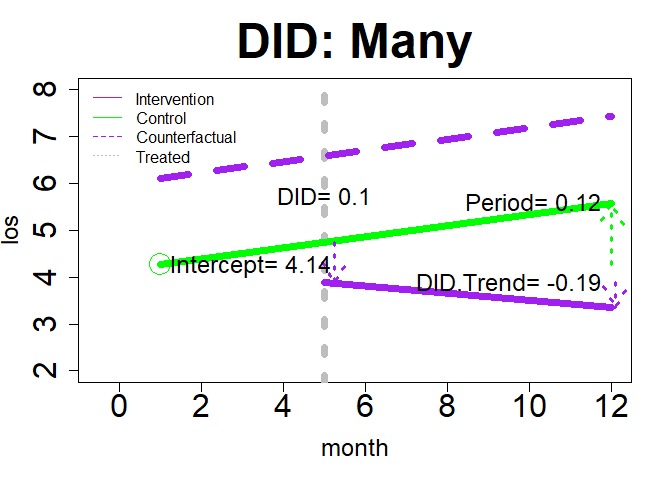
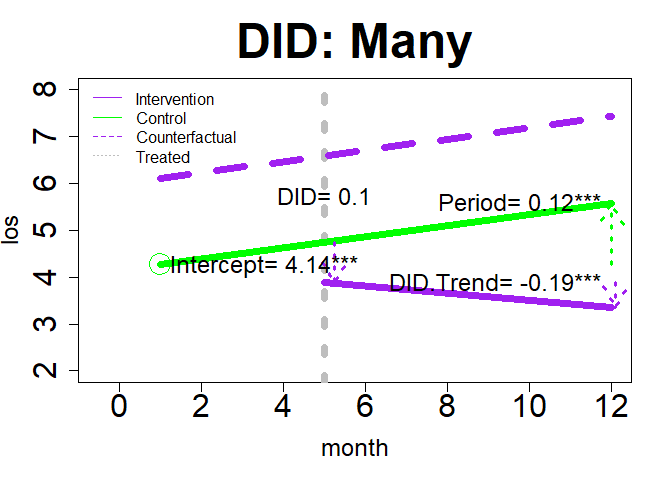
plot.assess: p-value symbols, cex.legend, stop()

Changed region(s): [[0.5625, 0.5625, 0.9062, 0.625], [0.6562, 0.4062, 0.9062, 0.4375], [0.5, 0.5312, 0.5312, 0.5625]]

diff --git a/README.md b/README.md
@@ -895,8 +895,8 @@ plot(im21, "ITS", add.legend="top", xlim=c(-1, 14), ylim=c(2, 8),
 Using all plot options
 
 ``` r
-plot(im22, "ITS", add.legend="top", xlim=c(-.5, 13), ylim=c(2, 8), 
-     main="ITS study: MGMT", col=c("dodgerblue","goldenrod"), lwd=7, cex=3, cex.axis=2, cex.lab=1.5,  cex.main=3, arrow=TRUE, xshift=c(0, .5), cex.text=1.25, coefs=TRUE, round.c=2, pos.text= list("txp1"=3, "post2"=4))
+plot(im22, "ITS", add.legend="top", xlim=c(-.75, 13.1), ylim=c(2, 8), 
+     main="ITS study: MGMT", col=c("dodgerblue","goldenrod"), lwd=7, cex=3, cex.axis=2, cex.lab=1.5,  cex.main=3, cex.legend=1.25, arrow=TRUE, xshift=c(0, .5), cex.text=1.25, coefs=TRUE, round.c=2, pos.text= list("txp1"=3, "post2"=4))
 ```
 
 <img src="man/figures/README-revITS4-1.png" width="100%" />
